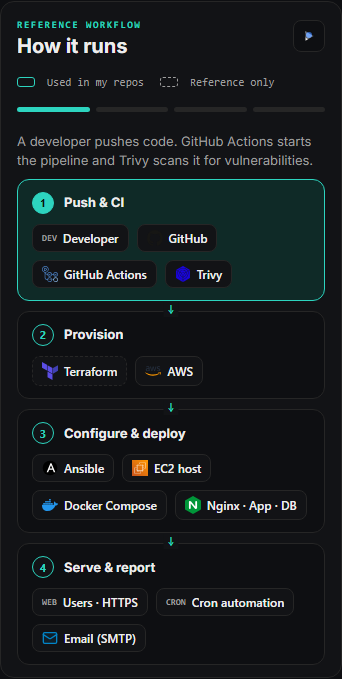
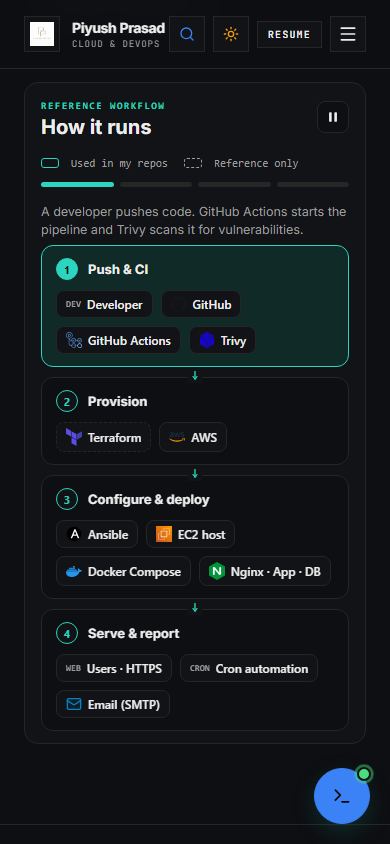
feat(skills): compact HowItRuns card height to fit single screen across 1080p, 900p, 768p, and 720p viewports

diff --git a/src/components/portfolio/HowItRuns.tsx b/src/components/portfolio/HowItRuns.tsx
@@ -41,8 +41,8 @@ type Node = {
 const W = 190;
 const H = 64;
 const COL = [24, 278, 532, 786]; // node lefts, 64px gaps
-const ROW1 = 24;
-const ROW2 = 152;
+const ROW1 = 16;
+const ROW2 = 128;
 
 const NODES: Node[] = [
   { id: "dev", x: COL[0], y: ROW1, w: W, h: H, name: "Developer", sub: "git push", fb: "DEV", steps: [0], tip: "Pushes code to the repository" },
@@ -51,22 +51,22 @@ const NODES: Node[] = [
   { id: "trivy", x: COL[3], y: ROW1, w: W, h: H, name: "Trivy", sub: "vulnerability scan", logo: "trivy", fb: "TR", steps: [0], tip: "Scans the code and images for known vulnerabilities" },
   { id: "ans", x: COL[1], y: ROW2, w: W, h: H, name: "Ansible", sub: "configure + deploy", logo: "ansible", fb: "AN", steps: [2], tip: "ansible-playbook configures the server and deploys the app over SSH" },
   { id: "tf", x: COL[2], y: ROW2, w: W, h: H, name: "Terraform", sub: "reference · IaC", logo: "terraform", fb: "TF", steps: [1], ref: true, tip: "plan / apply creates the AWS resources as code (reference step)" },
-  { id: "users", x: 71, y: 584, w: W, h: H, name: "Users", sub: "browser · HTTPS", fb: "WEB", steps: [3], tip: "Visitors reach the app over HTTPS" },
-  { id: "mail", x: COL[3], y: 584, w: W, h: H, name: "Email", sub: "SMTP · Nodemailer", logo: "mail", fb: "@", steps: [3], tip: "Daily PDF report and alert emails" },
+  { id: "users", x: 71, y: 500, w: W, h: H, name: "Users", sub: "browser · HTTPS", fb: "WEB", steps: [3], tip: "Visitors reach the app over HTTPS" },
+  { id: "mail", x: COL[3], y: 500, w: W, h: H, name: "Email", sub: "SMTP · Nodemailer", logo: "mail", fb: "@", steps: [3], tip: "Daily PDF report and alert emails" },
 ];
 
 type Edge = { n: number; step: number; d: string; len: number; bx: number; by: number; tip: string; label?: { x: number; y: number; t: string } };
 
 const EDGES: Edge[] = [
-  { n: 1, step: 0, d: "M214 56 H278", len: 64, bx: 246, by: 56, tip: "git push to the repository" },
-  { n: 2, step: 0, d: "M468 56 H532", len: 64, bx: 500, by: 56, tip: "A push or pull request triggers the workflow" },
-  { n: 3, step: 0, d: "M722 56 H786", len: 64, bx: 754, by: 56, tip: "Security scan of the code and images" },
-  { n: 4, step: 1, d: "M627 88 V152", len: 64, bx: 627, by: 120, tip: "Pipeline runs terraform plan and apply", label: { x: 643, y: 124, t: "plan · apply" } },
-  { n: 5, step: 1, d: "M627 216 V280", len: 64, bx: 627, by: 248, tip: "Terraform creates the AWS environment", label: { x: 643, y: 252, t: "provision" } },
-  { n: 6, step: 2, d: "M577 88 V120 H373 V152", len: 268, bx: 475, by: 120, tip: "Pipeline connects to the Ansible server over SSH" },
-  { n: 7, step: 2, d: "M373 216 V280", len: 64, bx: 373, by: 248, tip: "ansible-playbook deploys to the EC2 host", label: { x: 389, y: 252, t: "deploy" } },
-  { n: 8, step: 3, d: "M166 584 V456", len: 128, bx: 166, by: 550, tip: "Users reach Nginx over HTTPS", label: { x: 182, y: 554, t: "HTTPS" } },
-  { n: 9, step: 3, d: "M881 500 V584", len: 84, bx: 881, by: 550, tip: "Cron jobs email the PDF report and alerts", label: { x: 897, y: 554, t: "SMTP" } },
+  { n: 1, step: 0, d: "M214 48 H278", len: 64, bx: 246, by: 48, tip: "git push to the repository" },
+  { n: 2, step: 0, d: "M468 48 H532", len: 64, bx: 500, by: 48, tip: "A push or pull request triggers the workflow" },
+  { n: 3, step: 0, d: "M722 48 H786", len: 64, bx: 754, by: 48, tip: "Security scan of the code and images" },
+  { n: 4, step: 1, d: "M627 80 V128", len: 48, bx: 627, by: 104, tip: "Pipeline runs terraform plan and apply", label: { x: 643, y: 108, t: "plan · apply" } },
+  { n: 5, step: 1, d: "M627 192 V240", len: 48, bx: 627, by: 216, tip: "Terraform creates the AWS environment", label: { x: 643, y: 220, t: "provision" } },
+  { n: 6, step: 2, d: "M577 80 V104 H373 V128", len: 252, bx: 475, by: 104, tip: "Pipeline connects to the Ansible server over SSH" },
+  { n: 7, step: 2, d: "M373 192 V240", len: 48, bx: 373, by: 216, tip: "ansible-playbook deploys to the EC2 host", label: { x: 389, y: 220, t: "deploy" } },
+  { n: 8, step: 3, d: "M166 500 V416", len: 84, bx: 166, by: 476, tip: "Users reach Nginx over HTTPS", label: { x: 182, y: 480, t: "HTTPS" } },
+  { n: 9, step: 3, d: "M881 440 V500", len: 60, bx: 881, by: 476, tip: "Cron jobs email the PDF report and alerts", label: { x: 897, y: 480, t: "SMTP" } },
 ];
 
 const STEPS = [
@@ -95,7 +95,7 @@ function Tile({ x, y, size = 28, href, fb }: { x: number; y: number; size?: numb
       {href ? (
         <image href={href} x={x + 5} y={y + 5} width={size - 10} height={size - 10} preserveAspectRatio="xMidYMid meet" />
       ) : (
-        <text x={x + size / 2} y={y + size / 2 + 3} textAnchor="middle" className="hir-mono hir-ink" fontSize={fb.length > 2 ? 8 : 9.5} fontWeight={700}>
+        <text x={x + size / 2} y={y + size / 2 + 3} textAnchor="middle" className="hir-mono hir-ink" fontSize={fb.length > 2 ? 8.5 : 10} fontWeight={700}>
           {fb}
         </text>
       )}
@@ -168,6 +168,21 @@ export default function HowItRuns() {
     };
   }, []);
 
+  useEffect(() => {
+    const updateHeaderChrome = () => {
+      const header = document.querySelector("header");
+      const headerHeight = header ? Math.round(header.getBoundingClientRect().height) : 70;
+      const el = rootRef.current;
+      if (el) {
+        el.style.setProperty("--hir-chrome", `${headerHeight + 178 + 12}px`);
+        el.style.scrollMarginTop = `${headerHeight + 12}px`;
+      }
+    };
+    updateHeaderChrome();
+    window.addEventListener("resize", updateHeaderChrome);
+    return () => window.removeEventListener("resize", updateHeaderChrome);
+  }, []);
+
   const running = playing && visible && !hover && !tabHidden && !reduced;
 
   useEffect(() => {
@@ -194,6 +209,7 @@ export default function HowItRuns() {
   const isOn = (steps: number[]) => reduced || steps.includes(s);
   const dim = (steps: number[]) => (isOn(steps) ? "" : "hir-dim");
   const animate = !reduced && visible && playing;
+  const groupActive = isOn([1, 2, 3]);
 
   // packets for the active step, one after another
   const packets: { path: string; begin: number; dur: number; key: string }[] = [];
@@ -208,7 +224,14 @@ export default function HowItRuns() {
     "Reference workflow: a developer pushes to GitHub, GitHub Actions runs Trivy and Terraform, Ansible deploys Docker containers to an AWS EC2 server, users reach it over HTTPS, and cron jobs email a daily PDF report.";
 
   return (
-    <section ref={rootRef} className="hir" onMouseEnter={() => setHover(true)} onMouseLeave={() => setHover(false)} aria-label="How it runs">
+    <section
+      id="how-it-runs"
+      ref={rootRef}
+      className="hir"
+      onMouseEnter={() => setHover(true)}
+      onMouseLeave={() => setHover(false)}
+      aria-label="How it runs"
+    >
       <style>{CSS}</style>
 
       <header className="hir-head">
@@ -286,7 +309,7 @@ export default function HowItRuns() {
           ))}
         </ol>
       ) : (
-        <svg className="hir-svg" viewBox="0 0 1000 664" role="img" aria-label={ariaLabel} preserveAspectRatio="xMidYMin meet">
+        <svg className="hir-svg" viewBox="0 0 1000 580" role="img" aria-label={ariaLabel} preserveAspectRatio="xMidYMin meet">
           <defs>
             <marker id="hir-ah" viewBox="0 0 10 10" refX="9" refY="5" markerWidth="7" markerHeight="7" orient="auto-start-reverse">
               <path d="M0,0 L10,5 L0,10 z" className="hir-arrow" />
@@ -298,24 +321,24 @@ export default function HowItRuns() {
 
           {/* AWS group (real containment: EC2 host runs Docker + cron jobs) */}
           <g className={dim([1, 2, 3])}>
-            <rect x="24" y="280" width="952" height="240" rx="14" className={`hir-group ${s === 1 || s === 2 ? "hir-group-on" : ""}`}>
+            <rect x="24" y="240" width="952" height="212" rx="14" className={`hir-group ${s === 1 || s === 2 ? "hir-group-on" : ""}`}>
               <title>AWS environment (EC2 host)</title>
             </rect>
-            <Tile x={40} y={290} size={26} href={logo("aws")} fb="AWS" />
-            <text x="74" y="308" className="hir-name">
+            <Tile x={40} y={250} size={26} href={logo("aws")} fb="AWS" />
+            <text x="74" y="268" className="hir-name">
               AWS · EC2 host
             </text>
-            <text x="960" y="308" textAnchor="end" className="hir-mono hir-muted" fontSize={10}>
+            <text x="960" y="268" textAnchor="end" className="hir-mono hir-muted" fontSize={10}>
               Ubuntu · ap-south-1
             </text>
 
             {/* Docker Compose block */}
-            <rect x="64" y="330" width="560" height="170" rx="10" className="hir-block" />
-            <image href={logo("docker")} x="80" y="341" width="20" height="20" preserveAspectRatio="xMidYMid meet" />
-            <text x="108" y="356" className="hir-name" fontSize={12}>
+            <rect x="64" y="290" width="560" height="150" rx="10" className="hir-block" />
+            <image href={logo("docker")} x="80" y="301" width="20" height="20" preserveAspectRatio="xMidYMid meet" />
+            <text x="108" y="316" className="hir-name" fontSize={12}>
               Docker Compose
             </text>
-            <text x="608" y="356" textAnchor="end" className="hir-mono hir-muted" fontSize={10}>
+            <text x="608" y="316" textAnchor="end" className="hir-mono hir-muted" fontSize={10}>
               3 containers
             </text>
             {[
@@ -323,36 +346,36 @@ export default function HowItRuns() {
               { x: 268, name: "App", sub: "React + Node API", logo: "nodejs", fb: "APP" },
               { x: 452, name: "Database", sub: "MongoDB / SQLite", logo: "mongodb", fb: "DB" },
             ].map((c, i) => (
-              <g key={c.name} className={isOn([2, 3]) ? "hir-in" : "hir-off"} style={{ animationDelay: `${i * 150}ms` }}>
-                <rect x={c.x} y={392} width={164} height={64} rx={9} className="hir-chip" />
-                <circle cx={c.x + 152} cy={404} r={3} className="hir-dot" />
-                <Tile x={c.x + 10} y={404} size={28} href={logo(c.logo)} fb={c.fb} />
-                <text x={c.x + 46} y={425} className="hir-name" fontSize={12}>
+              <g key={c.name} className={isOn([2, 3]) ? "hir-in" : groupActive ? "hir-off" : ""} style={{ animationDelay: `${i * 150}ms` }}>
+                <rect x={c.x} y={352} width={164} height={64} rx={9} className="hir-chip" />
+                <circle cx={c.x + 152} cy={364} r={3} className="hir-dot" />
+                <Tile x={c.x + 10} y={364} size={28} href={logo(c.logo)} fb={c.fb} />
+                <text x={c.x + 46} y={385} className="hir-name" fontSize={12}>
                   {c.name}
                 </text>
-                <text x={c.x + 46} y={440} className="hir-mono hir-muted" fontSize={8.5}>
+                <text x={c.x + 46} y={400} className="hir-mono hir-muted" fontSize={9.5}>
                   {c.sub}
                 </text>
               </g>
             ))}
 
             {/* Cron automation block */}
-            <rect x="648" y="330" width="288" height="170" rx="10" className="hir-block" />
-            <text x="664" y="356" className="hir-name" fontSize={12}>
+            <rect x="648" y="290" width="288" height="150" rx="10" className="hir-block" />
+            <text x="664" y="316" className="hir-name" fontSize={12}>
               Cron automation
             </text>
-            <text x="920" y="356" textAnchor="end" className="hir-mono hir-muted" fontSize={10}>
+            <text x="920" y="316" textAnchor="end" className="hir-mono hir-muted" fontSize={10}>
               scheduled
             </text>
             {[
-              { y: 372, t: "Trivy scan → report", logo: "trivy", fb: "TR" },
-              { y: 410, t: "Daily PDF report (PDFKit)", logo: "pdf", fb: "PDF" },
-              { y: 448, t: "Alert mail on failure", logo: "mail", fb: "@" },
+              { y: 330, t: "Trivy scan → report", logo: "trivy", fb: "TR" },
+              { y: 364, t: "Daily PDF report (PDFKit)", logo: "pdf", fb: "PDF" },
+              { y: 398, t: "Alert mail on failure", logo: "mail", fb: "@" },
             ].map((r, i) => (
-              <g key={r.t} className={s === 3 || reduced ? "hir-in" : "hir-off"} style={{ animationDelay: `${i * 150}ms` }}>
-                <rect x={664} y={r.y} width={256} height={32} rx={8} className="hir-chip" />
-                <Tile x={670} y={r.y + 4} size={24} href={logo(r.logo)} fb={r.fb} />
-                <text x={702} y={r.y + 20} className="hir-mono hir-ink" fontSize={10}>
+              <g key={r.t} className={s === 3 || reduced ? "hir-in" : groupActive ? "hir-off" : ""} style={{ animationDelay: `${i * 150}ms` }}>
+                <rect x={664} y={r.y} width={256} height={30} rx={8} className="hir-chip" />
+                <Tile x={670} y={r.y + 4} size={22} href={logo(r.logo)} fb={r.fb} />
+                <text x={702} y={r.y + 19} className="hir-mono hir-ink" fontSize={10.5}>
                   {r.t}
                 </text>
               </g>
@@ -366,7 +389,7 @@ export default function HowItRuns() {
                 <title>{e.tip}</title>
               </path>
               {e.label && (
-                <text x={e.label.x} y={e.label.y} className="hir-mono hir-muted" fontSize={9.5}>
+                <text x={e.label.x} y={e.label.y} className="hir-mono hir-muted" fontSize={10.5}>
                   {e.label.t}
                 </text>
               )}
@@ -383,7 +406,7 @@ export default function HowItRuns() {
               <text x={n.x + 50} y={n.y + 30} className="hir-name">
                 {n.name}
               </text>
-              <text x={n.x + 50} y={n.y + 45} className="hir-mono hir-muted" fontSize={9.5}>
+              <text x={n.x + 50} y={n.y + 45} className="hir-mono hir-muted" fontSize={10.5}>
                 {n.sub}
               </text>
             </g>
@@ -409,7 +432,9 @@ const CSS = `
   --hir-text:var(--foreground,#121316); --hir-muted:var(--muted-foreground,#5A5C66);
   --hir-border:var(--border,#E5E5DF); --hir-acc:var(--accent-teal,#0F766E); --hir-acc-soft:#E4F2F0;
   --hir-ok:#16A34A; --hir-on:#FFFFFF;
-  background:var(--hir-bg); border:1px solid var(--hir-border); border-radius:14px; padding:24px 24px 16px;
+  --hir-chrome:260px;
+  scroll-margin-top:calc(70px + 12px);
+  background:var(--hir-bg); border:1px solid var(--hir-border); border-radius:14px; padding:18px 24px 12px;
   color:var(--hir-text); width:100%; box-sizing:border-box;
 }
 .dark .hir,[data-theme="dark"] .hir{
@@ -427,7 +452,7 @@ const CSS = `
 .hir-key-ref{border-style:dashed;border-color:var(--hir-muted)}
 .hir-btn{width:32px;height:32px;display:grid;place-items:center;border-radius:8px;border:1px solid var(--hir-border);background:var(--hir-surf);color:var(--hir-text);cursor:pointer}
 .hir-btn:focus-visible,.hir-seg:focus-visible{outline:2px solid var(--hir-acc);outline-offset:2px}
-.hir-steps{display:grid;grid-template-columns:repeat(4,1fr);gap:10px;margin:18px 0 12px}
+.hir-steps{display:grid;grid-template-columns:repeat(4,1fr);gap:10px;margin:12px 0 8px}
 .hir-seg{border:0;padding:0;background:none;cursor:pointer;text-align:left;color:var(--hir-muted)}
 .hir-seg::before{content:"";display:block;height:5px;border-radius:3px;background:var(--hir-border);margin-bottom:8px}
 .hir-seg-done::before{background:var(--hir-acc);opacity:.45}
@@ -435,8 +460,10 @@ const CSS = `
 .hir-seg-label{font:500 11.5px system-ui,sans-serif;white-space:nowrap;overflow:hidden;text-overflow:ellipsis;display:block}
 .hir-seg-label b{font:600 10.5px ui-monospace,Menlo,monospace;color:var(--hir-acc);margin-right:4px}
 .hir-seg-on .hir-seg-label{color:var(--hir-text);font-weight:600}
-.hir-caption{margin:0 0 8px;min-height:22px;font-size:13px;line-height:1.5;color:var(--hir-muted)}
-.hir-svg{display:block;width:100%;height:auto}
+.hir-caption{margin:0 0 6px;min-height:20px;font-size:12.5px;line-height:1.45;color:var(--hir-muted)}
+/* The whole card must fit on one screen: the diagram is limited by the viewport height.
+   --hir-chrome = sticky site header + card header/steps/caption + breathing room. */
+.hir-svg{display:block;width:100%;height:auto;max-height:calc(100dvh - var(--hir-chrome,250px));min-height:380px}
 .hir-mono{font-family:ui-monospace,Menlo,monospace}
 .hir-name{font:600 12.5px system-ui,-apple-system,Segoe UI,Roboto,sans-serif;fill:var(--hir-text)}
 .hir-muted{fill:var(--hir-muted)}
@@ -457,13 +484,13 @@ const CSS = `
 .hir-badge text{font:700 11px system-ui,sans-serif;fill:var(--hir-acc)}
 .hir-badge-on circle{fill:var(--hir-acc)}
 .hir-badge-on text{fill:var(--hir-on)}
-.hir-dim{opacity:.55}
+.hir-dim{opacity:.6}
 .hir g{transition:opacity .35s}
 .hir-packet-glow{fill:var(--hir-acc)}
 .hir-packet-dot{fill:var(--hir-acc)}
 .hir-flow{animation:hir-dash 12s linear infinite}
 @keyframes hir-dash{to{stroke-dashoffset:-120}}
-.hir-off{opacity:.3}
+.hir-off{opacity:.5}
 .hir-in{animation:hir-in .45s both}
 @keyframes hir-in{from{opacity:0;transform:translateY(4px)}to{opacity:1;transform:none}}
 .hir-list{list-style:none;margin:0;padding:0;display:flex;flex-direction:column;gap:10px}
